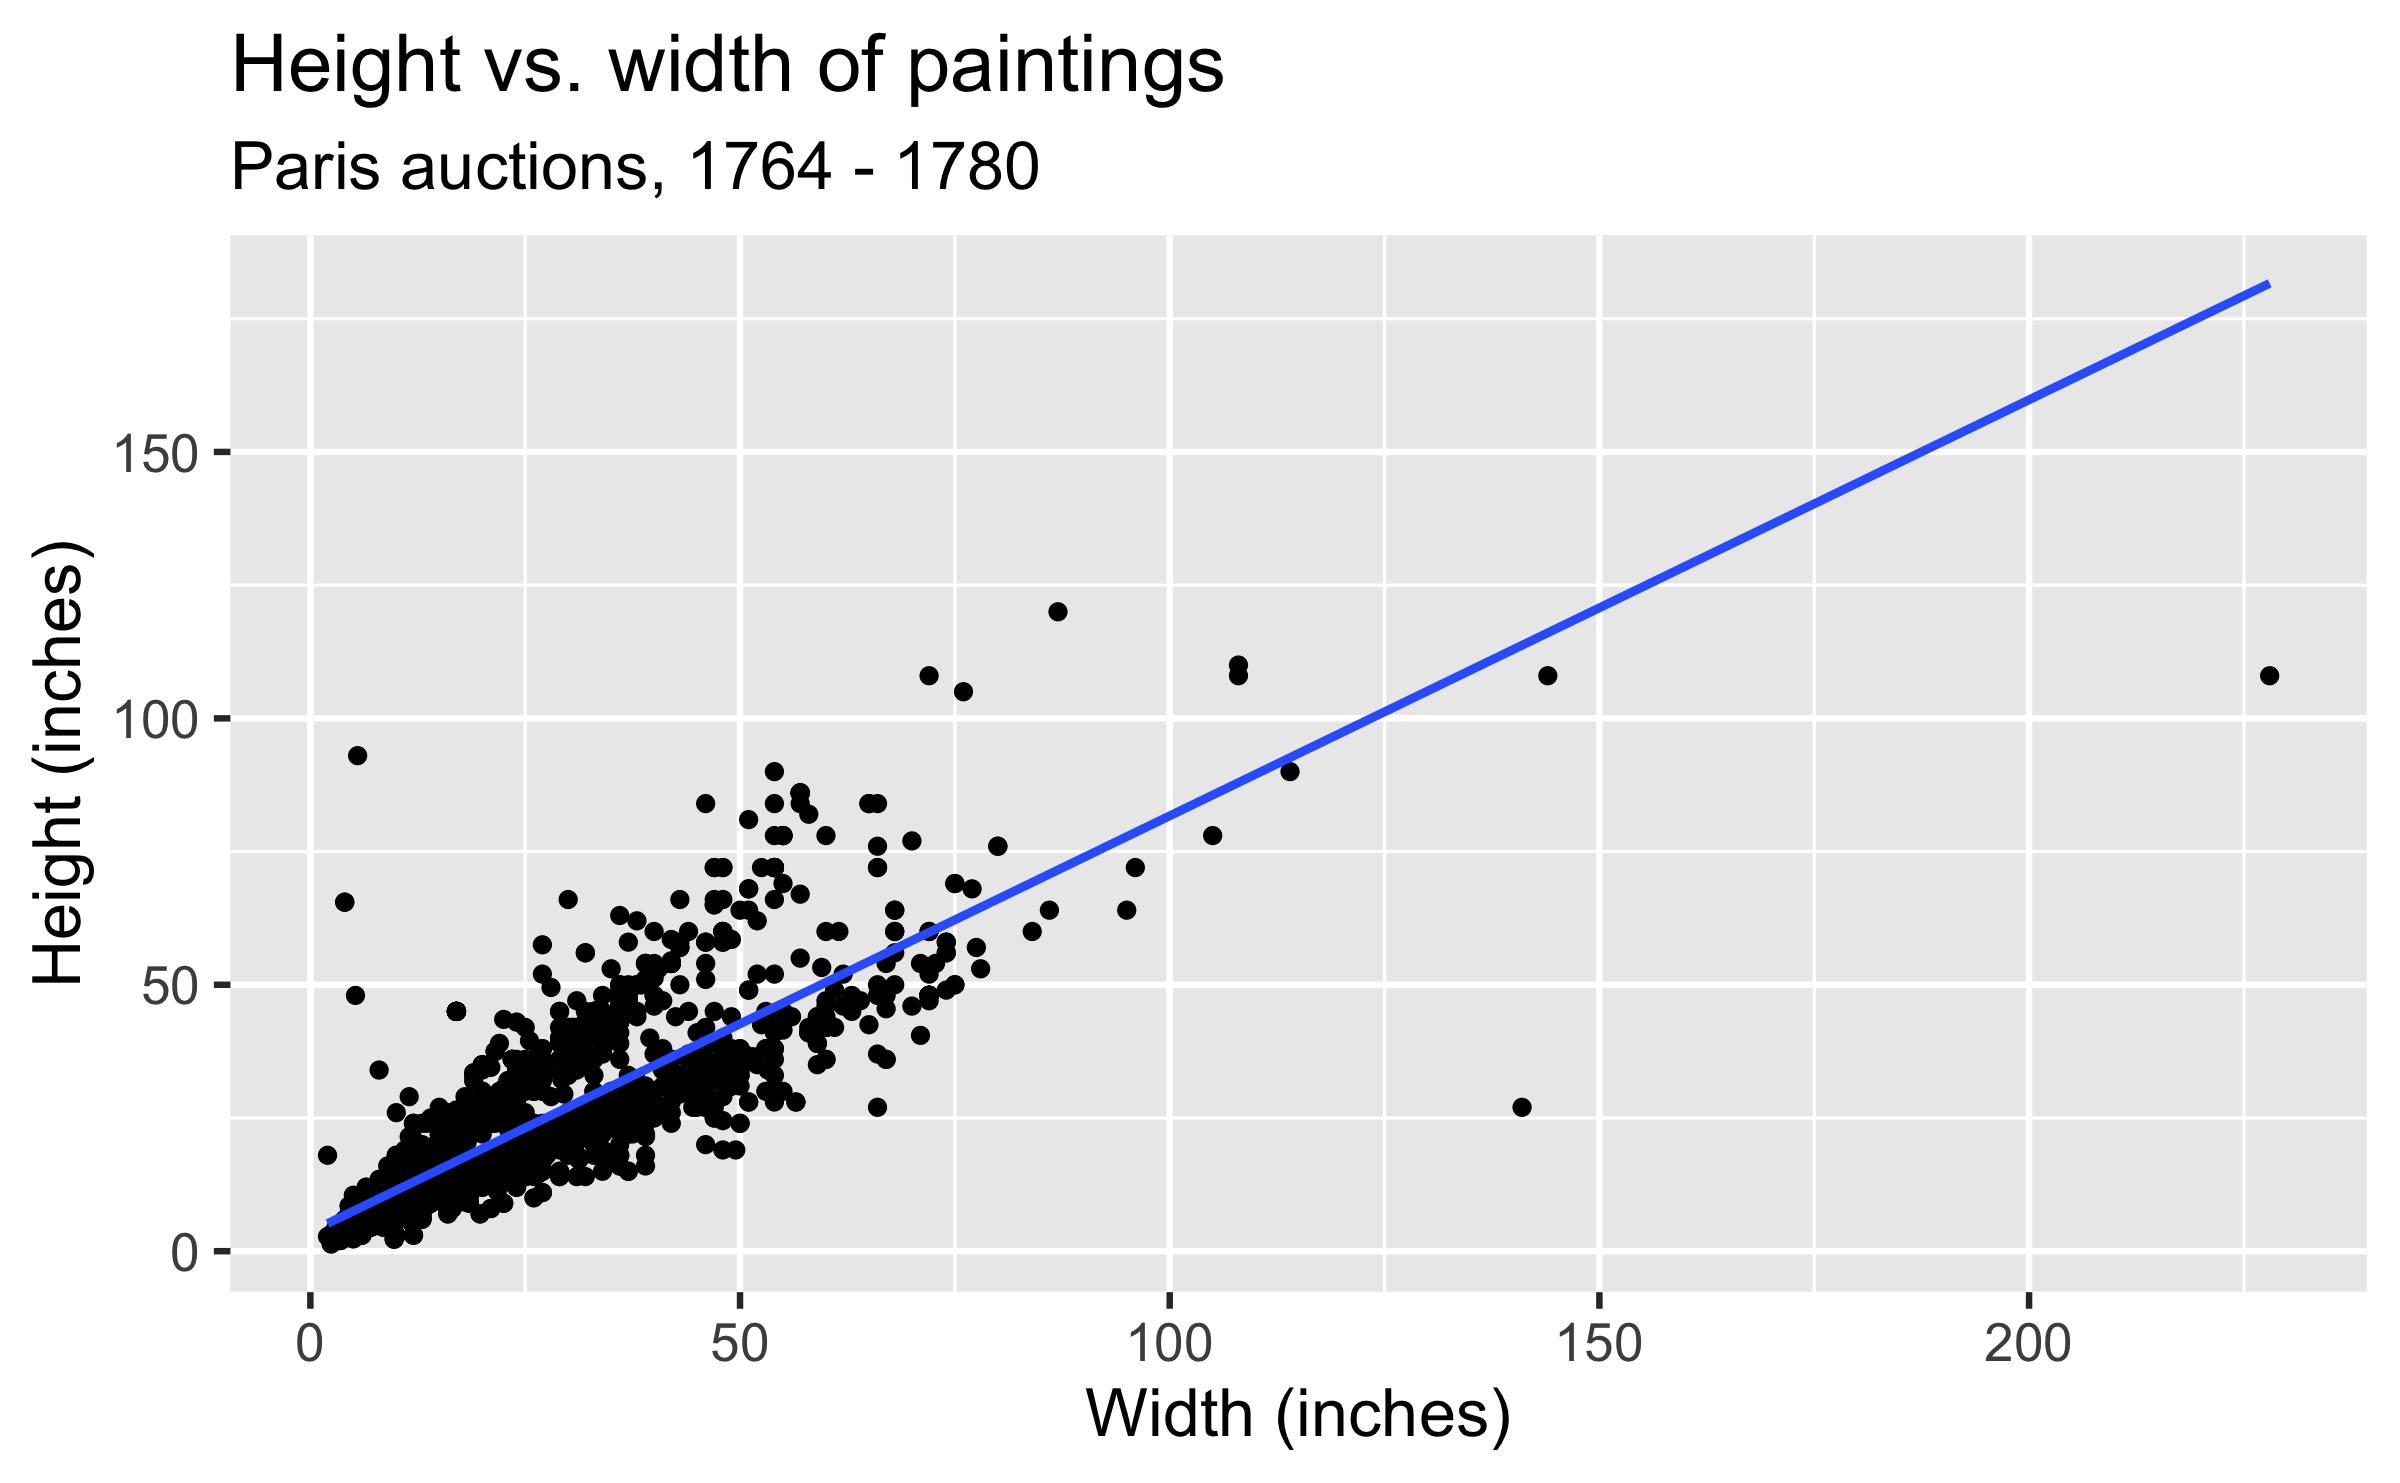
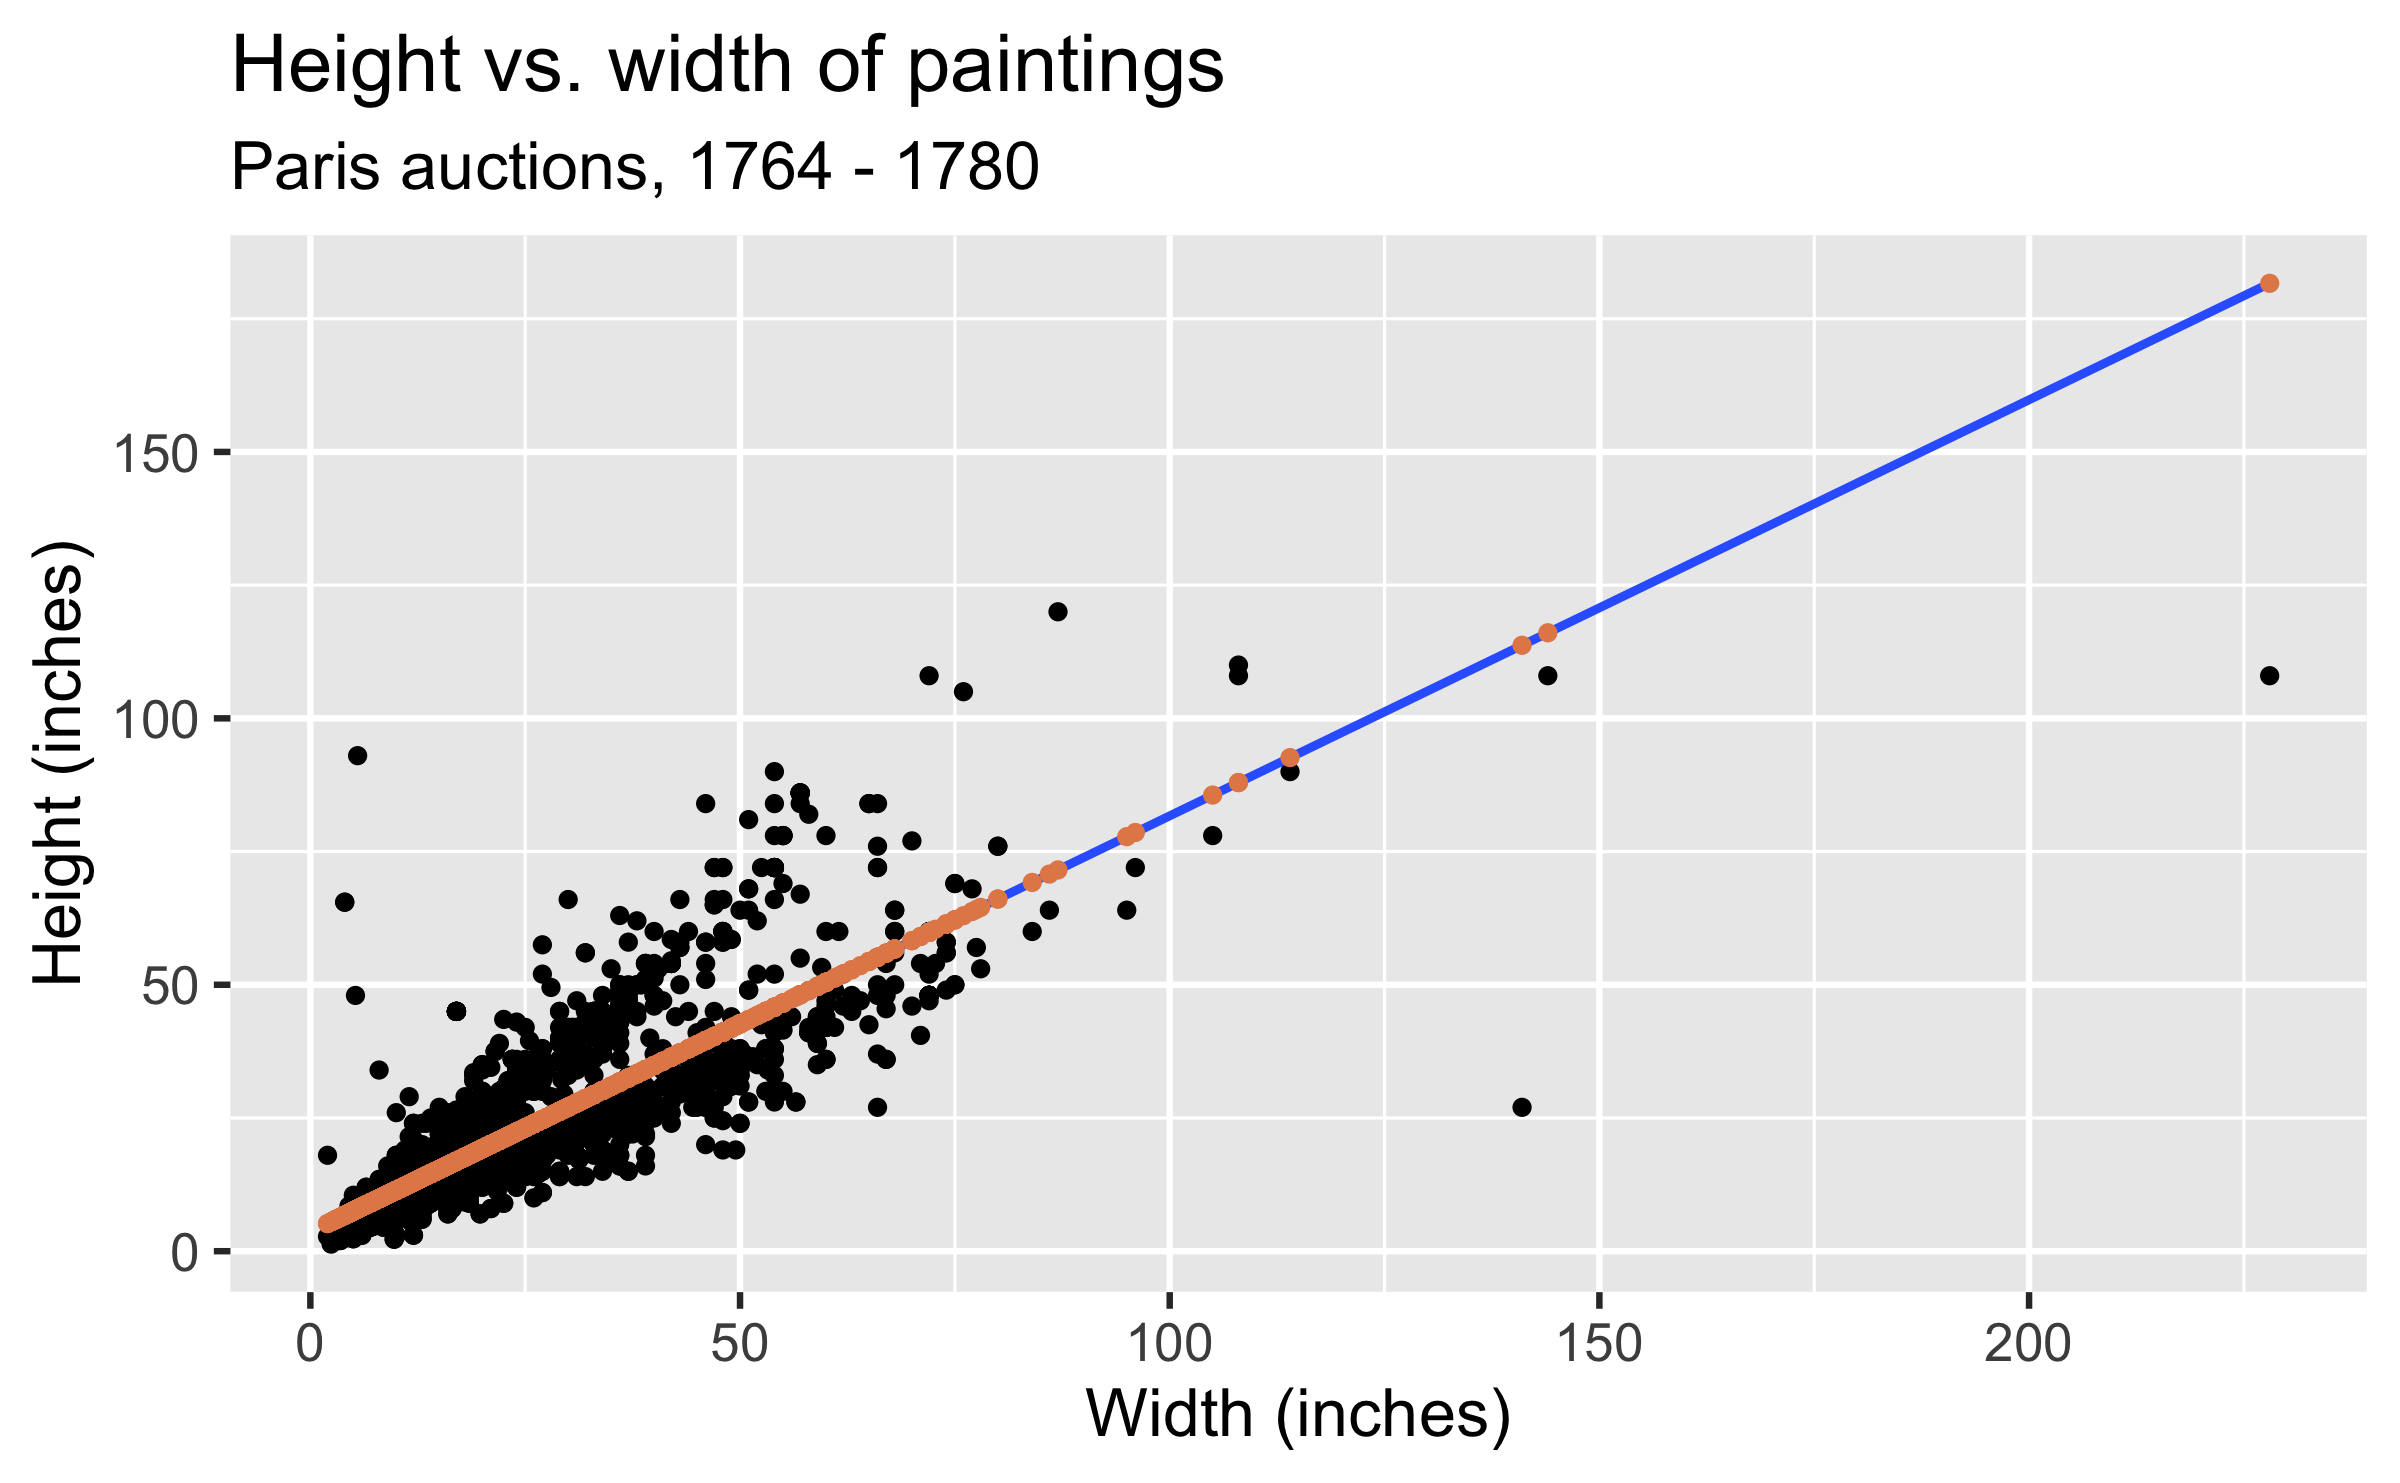
L15 Removed initial example about multiple predictors and cosmetic examples Added extrapolation and fitted+residual plots

diff --git a/slides/w08-L15/w08-L15.html b/slides/w08-L15/w08-L15.html
@@ -328,31 +328,6 @@ ggplot(data = pp, aes(x = Width_in, y = Height_in)) +
 ]
 ]
 
----
-
-## ... with different cosmetic choices
-
-.panelset[
-.panel[.panel-name[Plot]
-&lt;img src="w08-L15_files/figure-html/unnamed-chunk-14-1.png" width="60%" style="display: block; margin: auto;" /&gt;
-]
-.panel[.panel-name[Code]
-
-
-```r
-ggplot(data = pp, aes(x = Width_in, y = Height_in)) +
-  geom_point() +
-  geom_smooth(method = "lm", se = FALSE,
-*             color = "#8E2C90", linetype = "dashed", size = 3) +
-  labs(
-    title = "Height vs. width of paintings",
-    subtitle = "Paris auctions, 1764 - 1780",
-    x = "Width (inches)",
-    y = "Height (inches)"
-  )
-```
-]
-]
 
 ---
 
@@ -360,7 +335,7 @@ ggplot(data = pp, aes(x = Width_in, y = Height_in)) +
 
 .panelset[
 .panel[.panel-name[Plot]
-&lt;img src="w08-L15_files/figure-html/unnamed-chunk-15-1.png" width="50%" style="display: block; margin: auto;" /&gt;
+&lt;img src="w08-L15_files/figure-html/unnamed-chunk-14-1.png" width="50%" style="display: block; margin: auto;" /&gt;
 ]
 .panel[.panel-name[Code]
 
@@ -388,7 +363,7 @@ ggplot(data = pp, aes(x = Width_in, y = Height_in)) +
 
 .panelset[
 .panel[.panel-name[Plot]
-&lt;img src="w08-L15_files/figure-html/unnamed-chunk-16-1.png" width="50%" style="display: block; margin: auto;" /&gt;
+&lt;img src="w08-L15_files/figure-html/unnamed-chunk-15-1.png" width="50%" style="display: block; margin: auto;" /&gt;
 ]
 .panel[.panel-name[Code]
 
@@ -420,22 +395,25 @@ ggplot(data = pp, aes(x = Width_in, y = Height_in)) +
 --
 - **Explanatory variables:** Other variables that you want to use to explain the variation in the response, on the x-axis
 
---
+---
+
+## Vocabulary (..continued)
+
 - **Predicted value:** Output of the **model function**
   - The model function gives the typical (expected) value of the response variable *conditioning* on the explanatory variables
-&lt;img src="w08-L15_files/figure-html/height-width-plot-02-1.png" width="40%" style="display: block; margin: auto;" /&gt;
+  
+&lt;img src="w08-L15_files/figure-html/height-width-plot-02-1.png" width="50%" style="display: block; margin: auto;" /&gt;
+
 
 ---
 
-## Vocabulary
+## Vocabulary (..continued)
 
-- **Response variable:** Variable whose behavior or variation you are trying to understand, on the y-axis
-- **Explanatory variables:** Other variables that you want to use to explain the variation in the response, on the x-axis
-- **Predicted value:** Output of the **model function**
-  - The model function gives the typical (expected) value of the response variable *conditioning* on the explanatory variables
 - **Residuals:** A measure of how far each case is from its predicted value (based on a particular model)
   - Residual = Observed value - Predicted value
   - Tells how far above/below the expected value each case is
+
+&lt;img src="w08-L15_files/figure-html/height-width-plot-03-1.png" width="50%" style="display: block; margin: auto;" /&gt;
 
 ---
 
@@ -443,7 +421,7 @@ ggplot(data = pp, aes(x = Width_in, y = Height_in)) +
 
 .panelset[
 .panel[.panel-name[Plot]
-&lt;img src="w08-L15_files/figure-html/unnamed-chunk-17-1.png" width="60%" style="display: block; margin: auto;" /&gt;
+&lt;img src="w08-L15_files/figure-html/unnamed-chunk-16-1.png" width="60%" style="display: block; margin: auto;" /&gt;
 ]
 .panel[.panel-name[Code]
 .small[
@@ -459,7 +437,10 @@ ht_wt_fit_aug  &lt;- augment(ht_wt_fit$fit) %&gt;%
 
 ggplot(data = ht_wt_fit_aug) +
   geom_point(aes(x = Width_in, y = Height_in, color = res_cat)) +
-  geom_line(aes(x = Width_in, y = .fitted), size = 0.75, color = "#8E2C90") + 
+  geom_line(aes(x = Width_in, y = .fitted), linewidth = 0.75) +
+  geom_point(mapping = aes(x = Width_in,y = .fitted), color = "#E48957")+
+  geom_segment(mapping = aes(x = Width_in, y = Height_in,
+                             xend = Width_in, yend = .fitted), color = "#E48957", alpha = 0.4) + 
   labs(
     title = "Height vs. width of paintings",
     subtitle = "Paris auctions, 1764 - 1780",
@@ -477,99 +458,14 @@ ggplot(data = ht_wt_fit_aug) +
 
 ---
 
-.question[
-The plot below displays the relationship between height and width of paintings. The only difference from the previous plots is that it uses a smaller alpha value, making the points somewhat transparent. What feature is apparent in this plot that was not (as) apparent in the previous plots? What might be the reason for this feature?
-]
+## Extrapolation (..or extending regression lines)
 
-&lt;img src="w08-L15_files/figure-html/height-width-plot-alpha-1.png" width="55%" style="display: block; margin: auto;" /&gt;
+Please don't do it.
 
----
-
-## Portrait vs landscape paintings
-
-&lt;img src="img/height-width-plot-alpha-portrait.png" width="50%" style="display: block; margin: auto;" /&gt;
-
----
-
-## Portrait vs landscape paintings
-
-&lt;img src="img/height-width-plot-alpha-landscape.png" width="50%" style="display: block; margin: auto;" /&gt;
-
-
----
-
-## Landscape paintings
-
-- Landscape painting is the depiction in art of landscapes – natural scenery such as mountains, valleys, trees, rivers, and forests, especially where the main subject is a wide view – with its elements arranged into a coherent
-composition.&lt;sup&gt;1&lt;/sup&gt;
-  - Landscape paintings tend to be wider than they are long.
-- Portrait painting is a genre in painting, where the intent is to depict a human subject.&lt;sup&gt;2&lt;/sup&gt;
-  - Portrait paintings tend to be longer than they are wide.
+&lt;img src="img/xkcd_extrapolating.png" width="50%" style="display: block; margin: auto;" /&gt;
 
 .footnote[
-[1] Source: Wikipedia, [Landscape painting](https://en.wikipedia.org/wiki/Landscape_painting)
-
-[2] Source: Wikipedia, [Portait painting](https://en.wikipedia.org/wiki/Portrait_painting)
-]
-
----
-
-## Multiple explanatory variables
-
-.panelset[
-.panel[.panel-name[Plot]
-.pull-left-narrow[
-.question[
-How, if at all, does the relationship between width and height of paintings vary by whether or not they have any landscape elements?
-]
-]
-.pull-right-wide[
-&lt;img src="w08-L15_files/figure-html/unnamed-chunk-20-1.png" width="80%" style="display: block; margin: auto;" /&gt;
-]
-]
-.panel[.panel-name[Code]
-
-```r
-ggplot(data = pp, aes(x = Width_in, y = Height_in, color = factor(landsALL))) +
-  geom_point(alpha = 0.4) +
-  geom_smooth(method = "lm", se = FALSE) +
-  labs(
-    title = "Height vs. width of paintings, by landscape features",
-    subtitle = "Paris auctions, 1764 - 1780",
-    x = "Width (inches)",
-    y = "Height (inches)",
-    color = "landscape"
-  ) +
-  scale_color_manual(values = c("#E48957", "#071381"))
-```
-]
-]
-
----
-
-## Extending regression lines
-
-.panelset[
-.panel[.panel-name[Plot]
-&lt;img src="w08-L15_files/figure-html/unnamed-chunk-21-1.png" width="65%" style="display: block; margin: auto;" /&gt;
-]
-.panel[.panel-name[Code]
-
-```r
-ggplot(data = pp, aes(x = Width_in, y = Height_in, color = factor(landsALL))) +
-  geom_point(alpha = 0.4) +
-  geom_smooth(method = "lm", se = FALSE,
-*             fullrange = TRUE) +
-  labs(
-    title = "Height vs. width of paintings, by landscape features",
-    subtitle = "Paris auctions, 1764 - 1780",
-    x = "Width (inches)",
-    y = "Height (inches)",
-    color = "landscape"
-  ) +
-  scale_color_manual(values = c("#E48957", "#071381"))
-```
-]
+Source: XKCD, [Extrapolating](https://xkcd.com/605/)
 ]
 
 ---
@@ -589,13 +485,6 @@ is just as important as the model, if not more!
 
 - The scatter plot of the residuals suggests that there might be other factors that account for large parts of painting-to-painting variability, or perhaps just that randomness plays a big role.
 - Adding more explanatory variables to a model can sometimes usefully reduce the size of the scatter plot of the residuals around the predicted values. (We'll talk more about this later.)
-
----
-
-## How do we use models?
-
-- Explanation: Characterize the relationship between `\(y\)` and `\(x\)` via *slopes* for numerical explanatory variables or *differences* for categorical explanatory variables
-- Prediction: Plug in `\(x\)`, get the predicted `\(y\)`
 
 ---
 
@@ -1091,6 +980,18 @@ linear_reg() %&gt;%
 - Paintings whose school is **unknown (X)** are expected, on average, to be **2.87 inches taller** than *Austrian school* paintings.
 ]
 
+---
+
+## Recap: How do we use models?
+
+- Explanation: Characterize the relationship between `\(y\)` and `\(x\)` via 
+  
+  - *slopes* for numerical explanatory variables or 
+  
+  - *differences* for categorical explanatory variables
+  
+  
+- Prediction: Plug in `\(x\)`, get the predicted `\(y\)`
 
     </textarea>
 <style data-target="print-only">@media screen {.remark-slide-container{display:block;}.remark-slide-scaler{box-shadow:none;}}</style>
